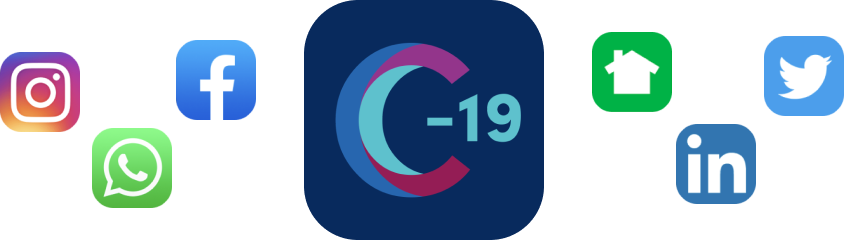
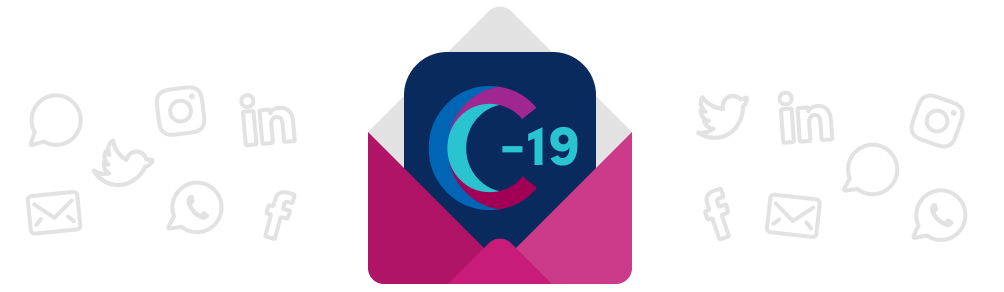
Add New UK Thank You Screen

diff --git a/src/features/ThankYouUKScreen.tsx b/src/features/ThankYouUKScreen.tsx
@@ -1,0 +1,161 @@
+import { Text } from 'native-base';
+
+import { blog001, incidence001, studyInvite, surveyInvite, webinar001 } from '@assets';
+import { CovidRating, shouldAskForRating } from '@covid/components/CovidRating';
+import { Header } from '@covid/components/Screen';
+import ShareThisApp from '@covid/components/ShareThisApp';
+import { BrandedButton, HeaderText, RegularText } from '@covid/components/Text';
+import Navigator from '@covid/features/Navigation';
+import i18n from '@covid/locale/i18n';
+import { RouteProp } from '@react-navigation/native';
+import { StackNavigationProp } from '@react-navigation/stack';
+import { colors } from '@theme';
+import React, { Component } from 'react';
+import { Image, SafeAreaView, ScrollView, StyleSheet, View } from 'react-native';
+
+import { ScreenParamList } from './ScreenParamList';
+import { ExternalCallout } from '@covid/components/ExternalCallout';
+
+type RenderProps = {
+  navigation: StackNavigationProp<ScreenParamList, 'ThankYouUK'>;
+  route: RouteProp<ScreenParamList, 'ThankYouUK'>;
+};
+
+export default class ThankYouUKScreen extends Component<RenderProps, { askForRating: boolean }> {
+  state = {
+    askForRating: false,
+    inviteToStudy: false,
+  };
+
+  async componentDidMount() {
+    // Ask for rating if not asked before and server indicates eligible.
+    if (await shouldAskForRating()) {
+      this.setState({ askForRating: true });
+    }
+
+    // TODO: Set inviteToStudy based on eligibility
+  }
+
+  gotoNextScreen = async () => {
+    try {
+      // TODO Is PatientID needed here?
+      const patientId = '';
+      await Navigator.gotoNextScreen(this.props.route.name, { patientId });
+    } catch (error) {
+      // Pass
+    }
+  };
+
+  render() {
+    return (
+      <>
+        {this.state.askForRating && <CovidRating />}
+        <SafeAreaView>
+          <ScrollView contentContainerStyle={styles.scrollView}>
+            <View style={styles.rootContainer}>
+              <Header>
+                <HeaderText style={styles.headerText}>{i18n.t('thank-you-uk.title')}</HeaderText>
+              </Header>
+
+              <View>
+                <RegularText style={styles.subTitle}>{i18n.t('thank-you-uk.subtitle')}</RegularText>
+              </View>
+
+              <ExternalCallout
+                link="https://covid.joinzoe.com/data"
+                calloutID="incidence_001"
+                imageSource={incidence001}
+                aspectRatio={1.5}
+              />
+
+              <ExternalCallout
+                link="https://www.youtube.com/watch?v=3nqlg0VPFi8&feature=emb_title"
+                calloutID="webinar_001"
+                imageSource={webinar001}
+                aspectRatio={1.178}
+              />
+
+              <ExternalCallout
+                link="https://covid.joinzoe.com/post/science-covid-diagnosis"
+                calloutID="blog_001"
+                imageSource={blog001}
+                aspectRatio={1.551}
+              />
+
+              <ExternalCallout
+                link="https://covid.joinzoe.com/"
+                calloutID="surveyInvite"
+                imageSource={surveyInvite}
+                aspectRatio={3.38}
+              />
+
+              <View style={{ margin: 10 }} />
+
+              <ShareThisApp />
+
+              {this.state.inviteToStudy && (
+                <View style={styles.socialIconContainer}>
+                  <Image source={studyInvite} style={styles.socialIcon} />
+                </View>
+              )}
+
+              <View style={styles.content}>
+                <RegularText style={styles.signOff}>{i18n.t('thank-you-uk.sign-off')}</RegularText>
+              </View>
+
+              <BrandedButton onPress={this.gotoNextScreen} style={styles.done}>
+                <Text style={styles.doneText}>{i18n.t('thank-you-uk.cta-multi-profile')}</Text>
+              </BrandedButton>
+            </View>
+          </ScrollView>
+        </SafeAreaView>
+      </>
+    );
+  }
+}
+
+const styles = StyleSheet.create({
+  headerText: {
+    textAlign: 'center',
+  },
+  subTitle: {
+    textAlign: 'center',
+  },
+  signOff: {
+    textAlign: 'center',
+  },
+  content: {
+    marginVertical: 32,
+    marginHorizontal: 18,
+  },
+  scrollView: {
+    flexGrow: 1,
+    backgroundColor: colors.backgroundSecondary,
+  },
+  rootContainer: {
+    padding: 10,
+  },
+  socialIconContainer: {
+    marginVertical: -10,
+    borderRadius: 10,
+    marginHorizontal: 10,
+    alignSelf: 'center',
+  },
+  socialIcon: {
+    resizeMode: 'contain',
+    width: '100%',
+    height: undefined,
+    aspectRatio: 1,
+  },
+  done: {
+    marginTop: 10,
+    marginBottom: 20,
+    marginHorizontal: 30,
+    backgroundColor: colors.backgroundSecondary,
+    borderColor: colors.primary,
+    borderWidth: 1,
+  },
+  doneText: {
+    color: colors.primary,
+  },
+});

diff --git a/src/components/ExternalCallout.tsx b/src/components/ExternalCallout.tsx
@@ -1,0 +1,44 @@
+import Analytics, { events } from '@covid/core/Analytics';
+import { Linking } from 'expo';
+import React from 'react';
+import { Image, ImageSourcePropType, StyleSheet, TouchableOpacity, TouchableWithoutFeedback, View } from 'react-native';
+
+type ExternalCalloutProps = {
+  link: string;
+  calloutID: string;
+  imageSource: ImageSourcePropType;
+  aspectRatio: number;
+};
+
+export const ExternalCallout = (props: ExternalCalloutProps) => {
+  function clickCallout() {
+    const calloutID = props.calloutID;
+    Analytics.track(events.CLICK_CALLOUT, { calloutID });
+    Linking.openURL(props.link);
+  }
+
+  return (
+    <TouchableWithoutFeedback style={styles.container} onPress={clickCallout}>
+      <View style={styles.viewContainer}>
+        <Image source={props.imageSource} style={[styles.image, { aspectRatio: props.aspectRatio }]} />
+      </View>
+    </TouchableWithoutFeedback>
+  );
+};
+
+const styles = StyleSheet.create({
+  container: {},
+
+  viewContainer: {
+    borderRadius: 10,
+    marginHorizontal: 10,
+    marginVertical: 20,
+    alignSelf: 'center',
+  },
+  image: {
+    resizeMode: 'center',
+    width: '100%',
+    height: undefined,
+    aspectRatio: 1,
+  },
+});

diff --git a/src/CovidApp.tsx b/src/CovidApp.tsx
@@ -55,6 +55,7 @@ import React, { Component, RefObject } from 'react';
 import { Dimensions, StatusBar } from 'react-native';
 import { SafeAreaProvider } from 'react-native-safe-area-context';
 import { Provider } from 'react-redux';
+import ThankYouUKScreen from '@covid/features/ThankYouUKScreen';
 
 const Stack = createStackNavigator<ScreenParamList>();
 const Drawer = createDrawerNavigator();
@@ -199,6 +200,7 @@ export default class CovidApp extends Component<object, State> {
         <Stack.Screen name="TreatmentOther" component={TreatmentOtherScreen} options={noHeader} />
         <Stack.Screen name="ThankYou" component={ThankYouScreen} options={noHeader} />
         <Stack.Screen name="ViralThankYou" component={ViralThankYouScreen} options={noHeader} />
+        <Stack.Screen name="ThankYouUK" component={ThankYouUKScreen} options={noHeader} />
         <Stack.Screen name="Login" component={LoginScreen} options={noHeader} />
         <Stack.Screen name="CreateProfile" component={CreateProfileScreen} options={noHeader} />
         <Stack.Screen name="ConsentForOther" component={ConsentForOther} options={noHeader} />

diff --git a/src/features/Navigation.ts b/src/features/Navigation.ts
@@ -58,6 +58,18 @@ class Navigator {
         this.startAssessmentFlow(currentPatient);
       }
     },
+
+    ThankYouUK: async (routeParams: PatientIdParamType) => {
+      const hasMultipleProfiles = this.hasMultipleProfiles();
+
+      if (hasMultipleProfiles) {
+        this.gotoScreen('SelectProfile', { patientId: routeParams.patientId });
+      } else
+        this.resetAndGo({
+          index: 0,
+          routes: [{ name: 'WelcomeRepeat', params: { patientId: routeParams.patientId } }],
+        });
+    },
   };
 
   constructor() {
@@ -146,6 +158,11 @@ class Navigator {
 
   resetAndGo(navStack: PartialState<NavigationState>) {
     this.navigation.reset(navStack);
+  }
+
+  hasMultipleProfiles(): boolean {
+    // TODD: Determine if user has unreported profiles
+    return false;
   }
 
   async profileSelected(mainProfile: boolean, currentPatient: PatientStateType) {

diff --git a/assets/index.ts b/assets/index.ts
@@ -43,3 +43,12 @@ export const profilesIcon = require('./profiles/profiles.png');
 export const svMap = require('./svMap.png');
 
 export const NUMBER_OF_PROFILE_AVATARS = 10;
+
+// ThankYou Modules
+export const blog001 = require('./thank-you-modules/blog_001.png');
+export const incidence001 = require('./thank-you-modules/incidence_001.png');
+export const webinar001 = require('./thank-you-modules/webinar_001.png');
+
+export const surveyInvite = require('./thank-you-modules/surveyInvite.png');
+export const studyInvite = require('./thank-you-modules/studyInvite.png');
+export const shareApp = require('./thank-you-modules/shareApp.png');

diff --git a/src/components/ShareThisApp.tsx b/src/components/ShareThisApp.tsx
@@ -58,7 +58,7 @@ const styles = StyleSheet.create({
   container: {
     backgroundColor: colors.white,
     borderRadius: 10,
-    marginHorizontal: 20,
+    marginHorizontal: 10,
   },
   primaryText: {
     fontSize: 20,
@@ -86,9 +86,8 @@ const styles = StyleSheet.create({
     alignSelf: 'center',
   },
   socialIcon: {
-    height: 60,
-    marginLeft: 5,
-    marginTop: 5,
-    resizeMode: 'contain',
+    width: '100%',
+    height: 'auto',
+    aspectRatio: 3.438,
   },
 });

diff --git a/src/features/assessment/AssessmentCoordinator.ts b/src/features/assessment/AssessmentCoordinator.ts
@@ -143,8 +143,8 @@ export class AssessmentCoordinator {
     return shouldAskStudy ? 'YourStudy' : 'YourWork';
   };
 
-  static getThankYouScreen = () => {
-    return isUSCountry() ? 'ViralThankYou' : 'ThankYou';
+  static getThankYouScreen = (): string => {
+    return isUSCountry() ? 'ViralThankYou' : isSECountry() ? 'ThankYou' : 'ThankYouUK';
   };
 
   static async shouldShowReportForOthers(config: ConfigType, userService: UserService) {

diff --git a/src/core/Analytics.ts b/src/core/Analytics.ts
@@ -18,6 +18,7 @@ export const events = {
   DONATE: 'DONATE',
   JOIN_STUDY: 'JOIN_STUDY',
   DECLINE_STUDY: 'DECLINE_STUDY',
+  CLICK_CALLOUT: 'CLICK_CALLOUT',
 };
 
 // Disable Tracking of the User Properties (Only available in Expo SDK 37)

diff --git a/src/features/ScreenParamList.tsx b/src/features/ScreenParamList.tsx
@@ -64,6 +64,7 @@ export type ScreenParamList = {
 
   // Completion screens
   ThankYou: undefined;
+  ThankYouUK: undefined;
   ViralThankYou: undefined;
 
   ValidationStudyIntro: { currentPatient: PatientStateType };
